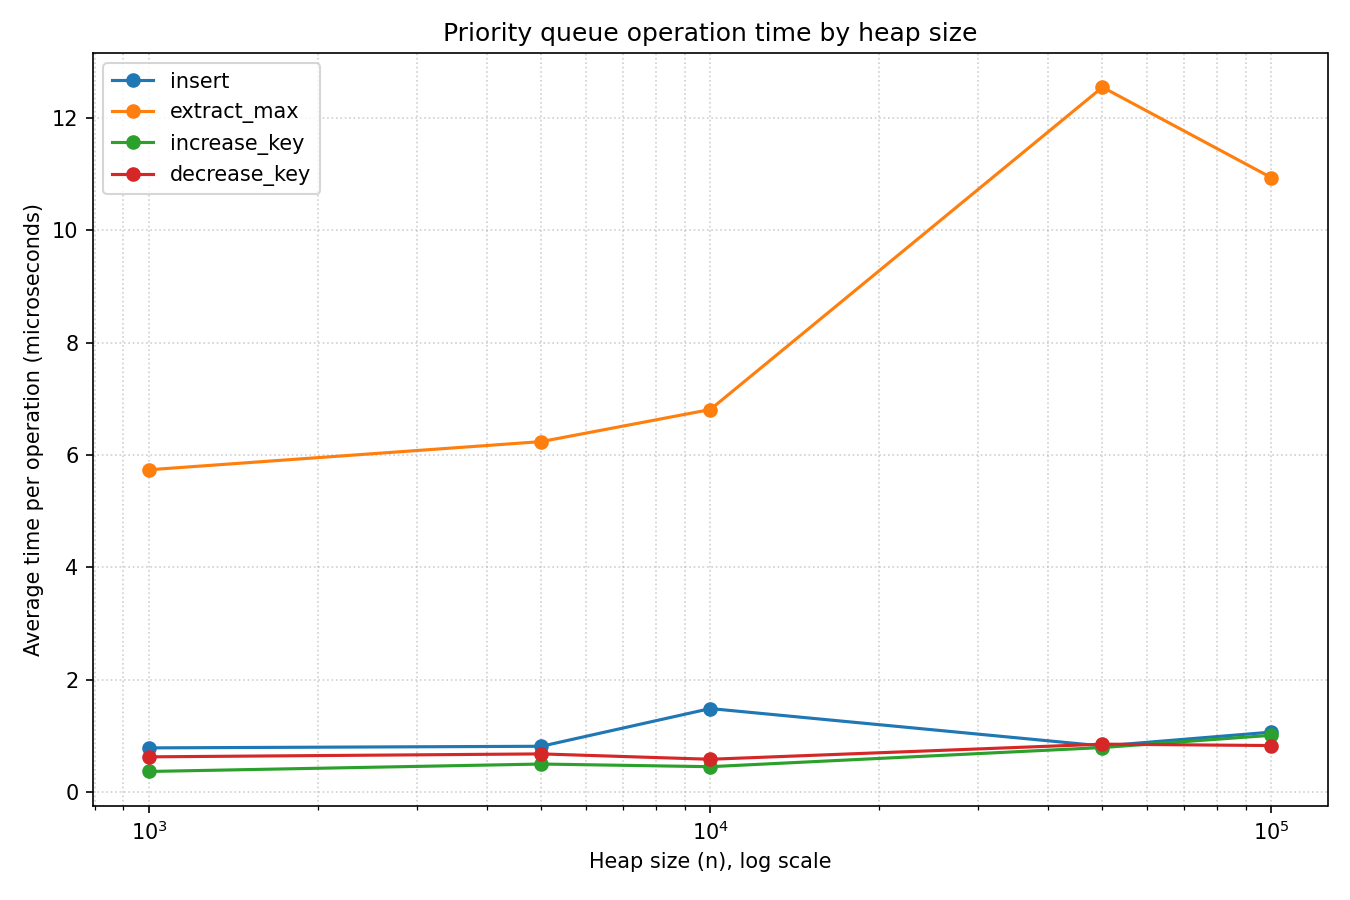
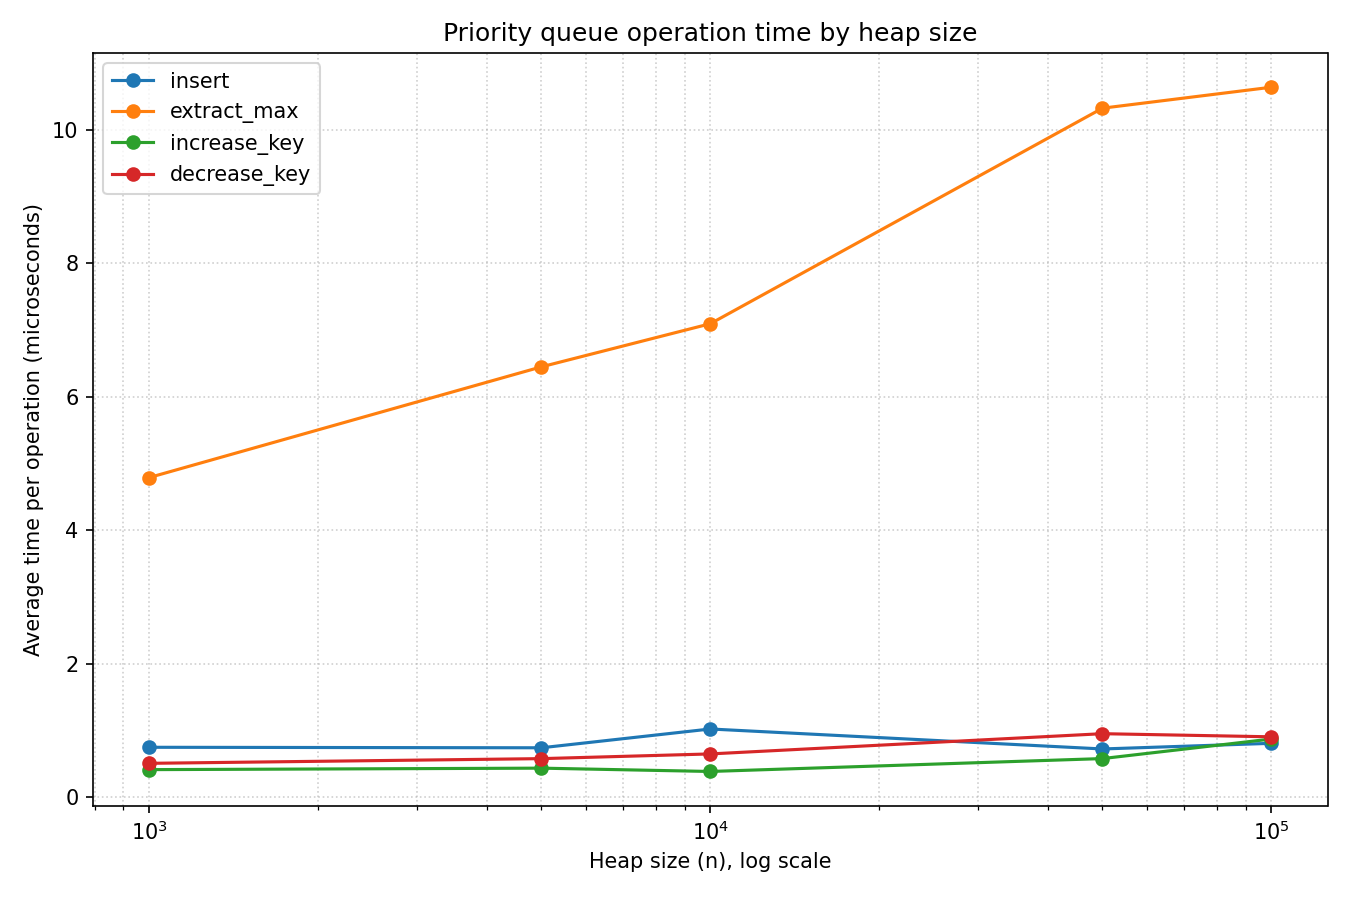
Add readme, task2 analysis, and main.py

diff --git a/assignment-4/main.py b/assignment-4/main.py
@@ -1,0 +1,43 @@
+"""Assignment 4 entry point: prompts the user to select an option to run.
+
+Each task offers two options, a demo and a benchmark.
+"""
+
+import importlib
+import os
+import sys
+from collections import namedtuple
+
+Option = namedtuple("Option", ["title", "folder", "module", "function"])
+
+OPTIONS = {
+    "1": Option("Task 1: Heapsort demo", "task1", "heapsort", "run_demo"),
+    "2": Option("Task 1: Heapsort benchmark", "task1", "benchmark", "run_benchmark"),
+    "3": Option("Task 2: Priority queue demo", "task2", "demo", "run_demo"),
+    "4": Option(
+        "Task 2: Priority queue benchmark", "task2", "benchmark", "run_benchmark"
+    ),
+}
+
+ASSIGNMENT_ROOT = os.path.dirname(os.path.abspath(__file__))
+
+
+def run_option(option):
+    sys.path.insert(0, os.path.join(ASSIGNMENT_ROOT, option.folder))
+    module = importlib.import_module(option.module)
+    getattr(module, option.function)()
+
+
+def main():
+    print("Assignment 4")
+    for number, option in OPTIONS.items():
+        print(f"  {number}. {option.title}")
+    selection = input("Select an option to run (1-4): ").strip()
+    if selection not in OPTIONS:
+        print(f"Unknown selection: {selection!r}")
+        return
+    run_option(OPTIONS[selection])
+
+
+if __name__ == "__main__":
+    main()

diff --git a/assignment-4/task1/benchmark.py b/assignment-4/task1/benchmark.py
@@ -1,12 +1,9 @@
-"""Correctness checks and run-time comparison of heapsort against randomized
-quicksort and mergesort across several input sizes and distributions.
+"""Correctness checks and run-time comparison of heapsort against randomized quicksort and mergesort across several input
+sizes and distributions.
 
-Run from inside the task1 folder:
-    python3 benchmark.py
-The script prints a table per distribution and saves the plot as
-performance_metrics.png.
 """
 
+import os
 import random
 import sys
 import time
@@ -16,14 +13,15 @@ import matplotlib
 # Use a non-interactive backend so the plot saves without a display.
 matplotlib.use("Agg")
 import matplotlib.pyplot as plt
-
 from heapsort import heapsort
 from merge_sort import merge_sort
 from randomized_quicksort import randomized_quicksort
 
 INPUT_SIZES = [1000, 2500, 5000, 10000, 20000, 30000, 40000, 50000]
 TRIALS_PER_MEASUREMENT = 3
-PLOT_FILENAME = "performance_metrics.png"
+PLOT_FILENAME = os.path.join(
+    os.path.dirname(os.path.abspath(__file__)), "performance_metrics.png"
+)
 
 # Randomized quicksort recurses at most a few dozen levels deep on these inputs,
 # but the limit is raised as a safety net against an unlucky run.

diff --git a/assignment-4/task1/heapsort.py b/assignment-4/task1/heapsort.py
@@ -1,7 +1,7 @@
 """Heapsort: sort a list in place in O(n log n) using a max-heap.
 
 The array is first arranged into a max-heap, so the largest element sits at the root. That root is swapped to the end of
-the unsorted region, the heap shrinks by one, and the new root is sifted down to restore the heap. Repeating this places
+the unsorted region, the heap shrinks by one, and the new root is bubbled down to restore the heap. Repeating this places
 each maximum into its final sorted position from the back of the array forward.
 """
 
@@ -19,7 +19,12 @@ def heapsort(array):
     return array
 
 
-if __name__ == "__main__":
+def run_demo():
+    """Print a short demonstration that the sort works."""
     sample = [5, 3, 8, 1, 9, 2, 7, 4, 6, 0]
     print("input :", sample)
     print("sorted:", heapsort(list(sample)))
+
+
+if __name__ == "__main__":
+    run_demo()

diff --git a/assignment-4/task2/benchmark.py b/assignment-4/task2/benchmark.py
@@ -5,6 +5,7 @@ operations per measurement to reduce noise. It prints a table and saves a plot o
 size on a log-scaled x-axis, where an O(log n) cost shows up as a slowly rising near-straight line.
 """
 
+import os
 import random
 from time import perf_counter
 
@@ -19,7 +20,7 @@ HEAP_SIZES = [1000, 5000, 10000, 50000, 100000]
 OPERATIONS_PER_MEASUREMENT = 1000
 MAX_PRIORITY = 10**6
 REKEY_STEP = 1000
-PLOT_FILENAME = "operation_scaling.png"
+PLOT_FILENAME = os.path.join(os.path.dirname(os.path.abspath(__file__)), "operation_scaling.png")
 
 MICROSECONDS_PER_SECOND = 1_000_000
 

diff --git a/assignment-4/task2/analysis.md b/assignment-4/task2/analysis.md
@@ -1,0 +1,47 @@
+# Task 2: Analysis of a Max-Heap Priority Queue
+
+## 1. Design justification
+
+The scheduler stores tasks in a max-heap keyed on priority, so the highest-priority task always sits at the root and can be served in one step. A max-heap is the natural structure for this access pattern, because it keeps the maximum immediately available while only partially ordering the remaining elements, which is far cheaper than the full ordering a sorted list would maintain (Cormen et al., 2022). The queue is a nearly complete binary tree laid out in a 0-indexed array, where the children of the node at index *i* live at indices *2i + 1* and *2i + 2*, so the parent and child relationships are arithmetic rather than pointer-based.
+
+Ties in priority are broken by arrival time, with the earlier arrival ranked above the later one. This rule is expressed in a single comparison on the Task object, which compares priorities first and falls back to arrival time only when the priorities are equal. The tie-break gives the scheduler a predictable and fair behavior, since tasks of equal importance leave the queue in the order they entered it, which matches the FIFO behavior of a regular queue and prevents a later task from overtaking an equally urgent earlier one.
+
+The third design choice is a position map, a dictionary from task identifier to the current heap index of that task. Without it, raising or lowering the priority of a known task would require a linear scan to find the task before heapifying it, which would make reindexing cost *O(n)*. The map locates any task in constant time, so increase_key and decrease_key spend their time only on the logarithmic bubble that follows. The map is kept correct in exactly one place, the swap routine, which is the only operation that changes a task index, so every exchange updates the recorded positions of the two tasks involved. Concentrating the bookkeeping in the swap keeps the map consistent without scattering index updates across the code (Sylhar, 2025).
+
+## 2. Operation complexity
+
+Let *n* be the number of tasks in the queue. The height of the heap is the floor of *log n*, because the tree is nearly complete, and this height bounds the length of any bubble path (Cormen et al., 2022). The insert operation appends the new task at the end of the array and then bubbles it up, comparing it with its parent and exchanging upward until it reaches a position where it no longer outranks its parent. The bubble-up walks at most one path from a leaf to the root, so insert costs *O(log n)*. The extract_max operation removes the root, moves the last task into the root position, and bubbles it down through the larger of its children until the heap property is restored. The bubble-down traverses at most the full height of the tree, so extract_max also costs *O(log n)*.
+
+The increase_key operation locates the task through the position map in constant time, raises its priority, and bubbles it up, because a higher priority can only move a task closer to the root. The decrease_key operation is the mirror image: it locates the task, lowers its priority, and bubbles it down, because a lower priority can only move a task toward the leaves. Each performs a constant-time lookup followed by a single bubble along one path, so both run in *O(log n)* (Sylhar, 2025). The is_empty operation only tests whether the underlying array holds any element, which is a constant-time check independent of *n*, so it runs in *O(1)*.
+
+## 3. Empirical scaling
+
+The benchmark times each of the four operations over heap sizes from 1000 to 100000, averaging roughly one thousand operations per measurement. Times are reported in microseconds. The plot operation_scaling.png displays the same measurements.
+
+![Average per-operation time for insert, extract_max, increase_key, and decrease_key across heap sizes](operation_scaling.png)
+
+| Heap size n | insert (us) | extract_max (us) | increase_key (us) | decrease_key (us) |
+|------:|------------:|-----------------:|------------------:|------------------:|
+| 1000 | 0.790 | 5.737 | 0.370 | 0.630 |
+| 5000 | 0.818 | 6.238 | 0.503 | 0.683 |
+| 10000 | 1.489 | 6.808 | 0.455 | 0.587 |
+| 50000 | 0.824 | 12.541 | 0.796 | 0.856 |
+| 100000 | 1.070 | 10.932 | 1.014 | 0.831 |
+
+Every operation rises only slowly as *n* grows by a factor of one hundred, which is the signature of a logarithmic cost, since a logarithm increases by a small additive amount when its argument is multiplied. The extract_max operation shows the clearest logarithmic climb, roughly doubling across the range, because it always promotes a former leaf to the root and then bubbles it down through close to the full height of the heap, so it exercises the longest bubble path of the four operations. The other three operations look almost flat and somewhat noisy. Their cost is genuinely *O(log n)*, but their average bubble path is short. A fresh insert often bubbles up only a few levels before settling, and a re-index that changes a priority by a modest amount inside a wide range of priorities usually moves the task only a short distance. The logarithmic growth is real, yet at sub-microsecond scales it is small in absolute terms and is partly hidden by timing noise, so the curves appear nearly level. The measured behavior therefore agrees with the theory once the difference between the long bubble of extract_max and the typically short bubble of the other operations is taken into account.
+
+The evidence evaluated for each individual operation is supported independently by the heapsort scaling in Task 1. Because heapsort executes *n* extraction operations and completes in an overall time of *O(n log n)*, this performance is consistent only if the cost of each extraction remains *O(log n)*. Both experiments observe the identical logarithmic bubble cost through separate analytical approaches, which involve timing the isolated operation and aggregating the cost across a complete sort to confirm their mutual agreement.
+
+## 4. Scheduling demonstration
+
+The demonstration inserts five tasks, two of which share priority five, then applies one increase_key and one decrease_key mid-stream before serving every task with repeated extract_max. Task 2 (T2), in the tasks list, is raised from priority three to six, and task 5 is lowered from priority four to two. The resulting execution order is [2, 1, 3, 5, 4].
+
+This order confirms the design. T2, raised to the highest priority of six, is served first, which shows that increase_key correctly floated it to the root. T1 and T3 both hold priority five, and T1, which arrived earlier, is served before T3, so the arrival-time tie-break is visible in the output. T5, lowered to priority two, falls behind every higher-priority task and is served second to last, ahead only of T4 at priority one, which shows that decrease_key correctly sank it. A check after the re-keying confirmed that every task remained present and reported its updated priority, so the position map stayed consistent through the mid-stream changes.
+
+The primary performance advantage is that the scheduler can adapt to changing conditions efficiently. Adjusting the priority of an existing task in the queue requires a time complexity of only *O(log n)*, which is equivalent to the cost of a new insertion. Because the queue facilitates dynamic priority adjustments without necessitating a complete rebuild, this efficiency directly supports system requirements when the significance of pending work shifts over time.
+
+## References
+
+Cormen, T. H., Leiserson, C. E., Rivest, R. L., & Stein, C. (2022). *Introduction to Algorithms* (4th ed.). Random House Publishing Services.
+
+Sylhar. (2025, June 27). *Data structure: Priority queue*. https://sylhare.github.io/2025/06/27/Memo-priority-queue.html

diff --git a/assignment-4/README.md b/assignment-4/README.md
@@ -1,0 +1,45 @@
+# Overview
+
+This folder contains 2 sub-folder
+- [Task 1](./task1)
+- [Taks 2](./task2)
+
+Each sub-folder corresponding to the implementation and analysis for part 1 and part 2 of the assignment
+
+# Requirements
+
+- Python 3.
+- matplotlib, used by the two benchmark scripts to save their plots.
+
+```bash
+pip install matplotlib
+```
+
+# Execution
+At the root folder run
+```bash
+python3 assignment-4/main.py
+```
+
+Follow the instruction to run one of the options. Each task offers two options:
+- Task 1: heapsort demo or benchmark
+- Task 2: priority queue demo or benchmark
+
+# Structure
+
+## task1 folder
+- [Max Heap](./task1/max_heap.py) - Implementation of the array backed max-heap core
+- [Heapsort](./task1/heapsort.py) - Implementation of heapsort and its demo
+- [Randomized Quicksort](./task1/randomized_quicksort.py) - Comparison sort used in the benchmark
+- [Merge Sort](./task1/merge_sort.py) - Comparison sort used in the benchmark
+- [Benchmark](./task1/benchmark.py) - Correctness checks, timing table, and the comparison plot
+- [Analysis](./task1/analysis.md) - Details analysis of Heapsort run time
+
+## task2 folder
+- [Task](./task2/task.py) - The Task value object scheduled by the priority queue
+- [Priority Queue](./task2/priority_queue.py) - Implementation of the max-heap priority queue
+- [Demo](./task2/demo.py) - Scheduling scenario and its execution order
+- [Benchmark](./task2/benchmark.py) - Per-operation timing table and the scaling plot
+- [Analysis](./task2/analysis.md) - Details analysis of Priority Queue run time
+</content>
+</invoke>
